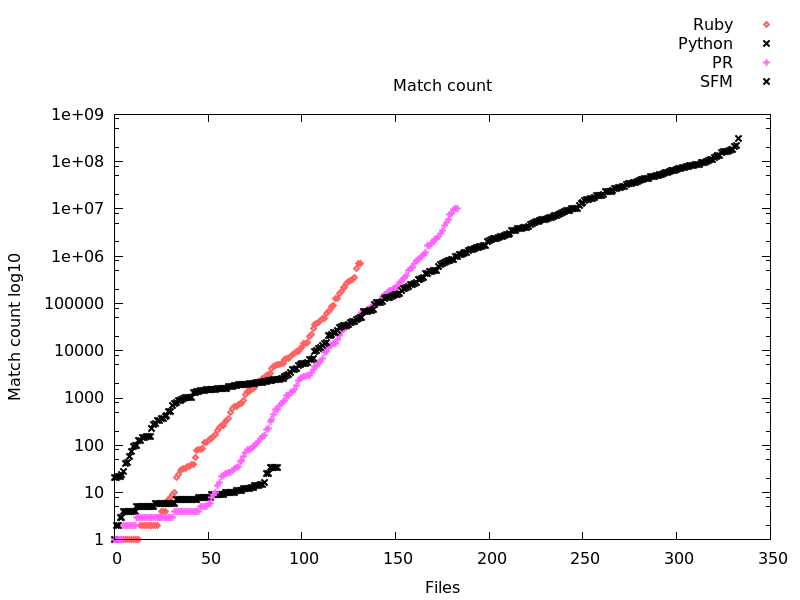
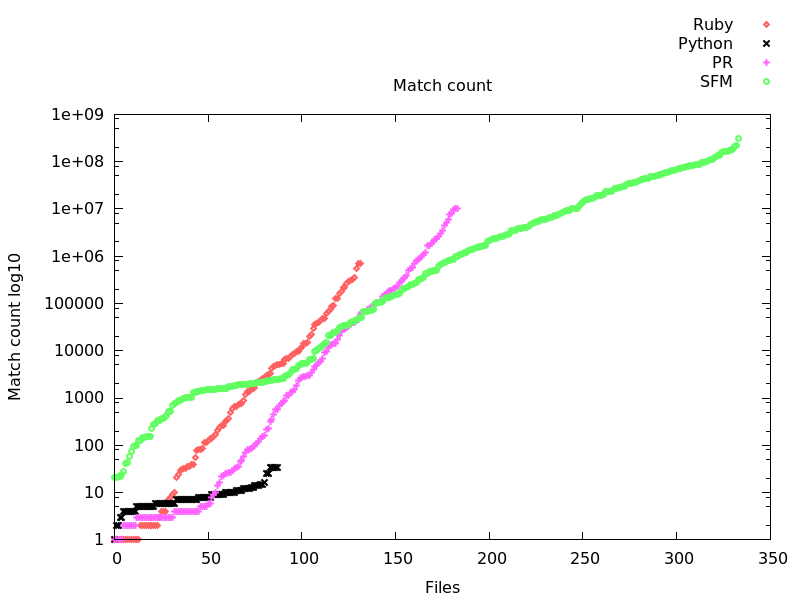
report

diff --git a/code/ruby/src/visualizer.rb b/code/ruby/src/visualizer.rb
@@ -268,7 +268,7 @@ class Visualizer
                  '#{@mode[mode][:ruby]}1.data' with points ls 2 title 'Ruby', \
                  '#{@mode[mode][:python]}1.data' with points ls 3 title 'Python', \
                  '#{@mode[mode][:python_regex]}1.data' with points ls 4 title 'PR', \
-                 '#{@mode[mode][:scan]}1.data' with points ls 3 title 'SFM'
+                 '#{@mode[mode][:scan]}1.data' with points ls 5 title 'SFM'
 
             # title
             set title '2 #{@mode[mode][:title]}'
@@ -279,7 +279,7 @@ class Visualizer
                  '#{@mode[mode][:ruby]}2.data' with points ls 2 title 'Ruby', \
                  '#{@mode[mode][:python]}2.data' with points ls 3 title 'Python', \
                  '#{@mode[mode][:python_regex]}2.data' with points ls 4 title 'PR', \
-                 '#{@mode[mode][:scan]}2.data' with points ls 3 title 'SFM'
+                 '#{@mode[mode][:scan]}2.data' with points ls 5 title 'SFM'
             unset multiplot
         "
 
@@ -316,7 +316,7 @@ class Visualizer
                  '#{@mode[mode][:ruby]}' with points ls 2 title 'Ruby', \
                  '#{@mode[mode][:python]}' with points ls 3 title 'Python', \
                  '#{@mode[mode][:python_regex]}' with points ls 4 title 'PR', \
-                 '#{@mode[mode][:scan]}' with points ls 3 title 'SFM'
+                 '#{@mode[mode][:scan]}' with points ls 5 title 'SFM'
         "
 
         gnuplot(commands)
